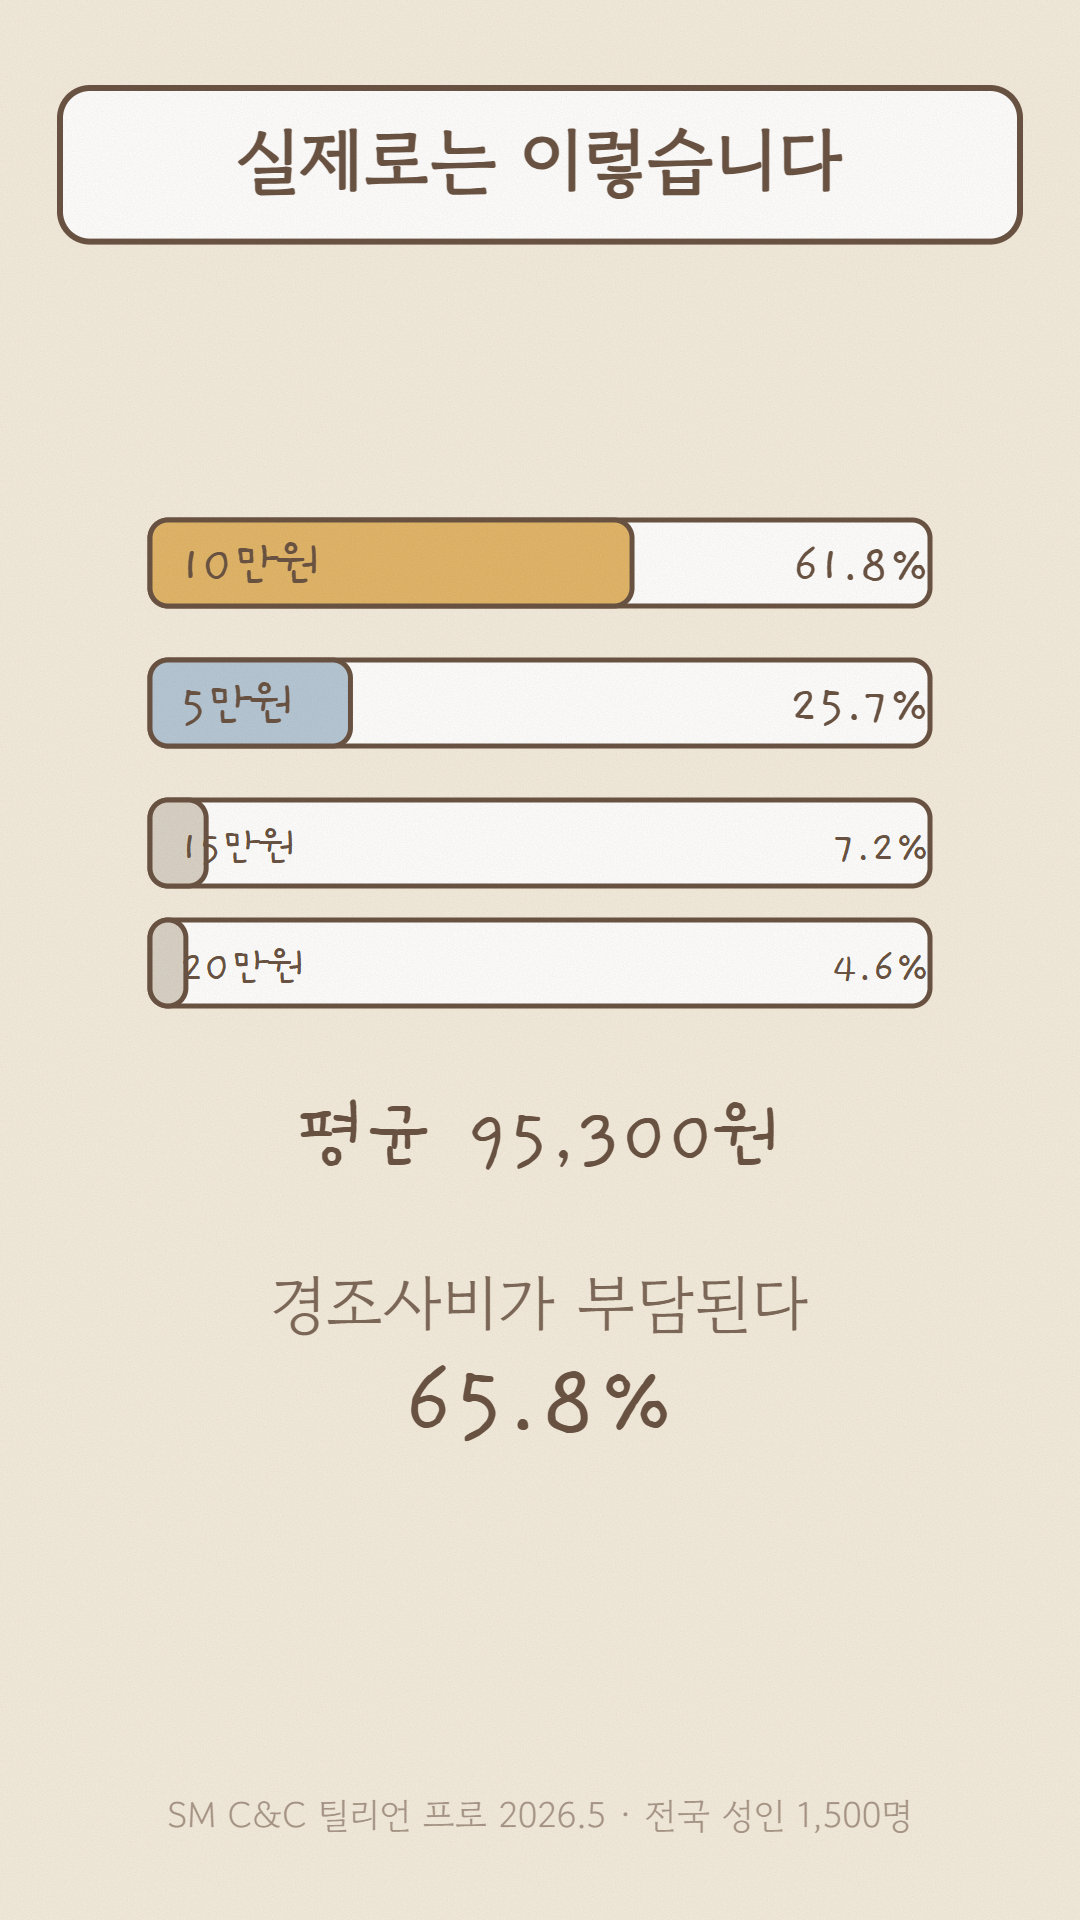
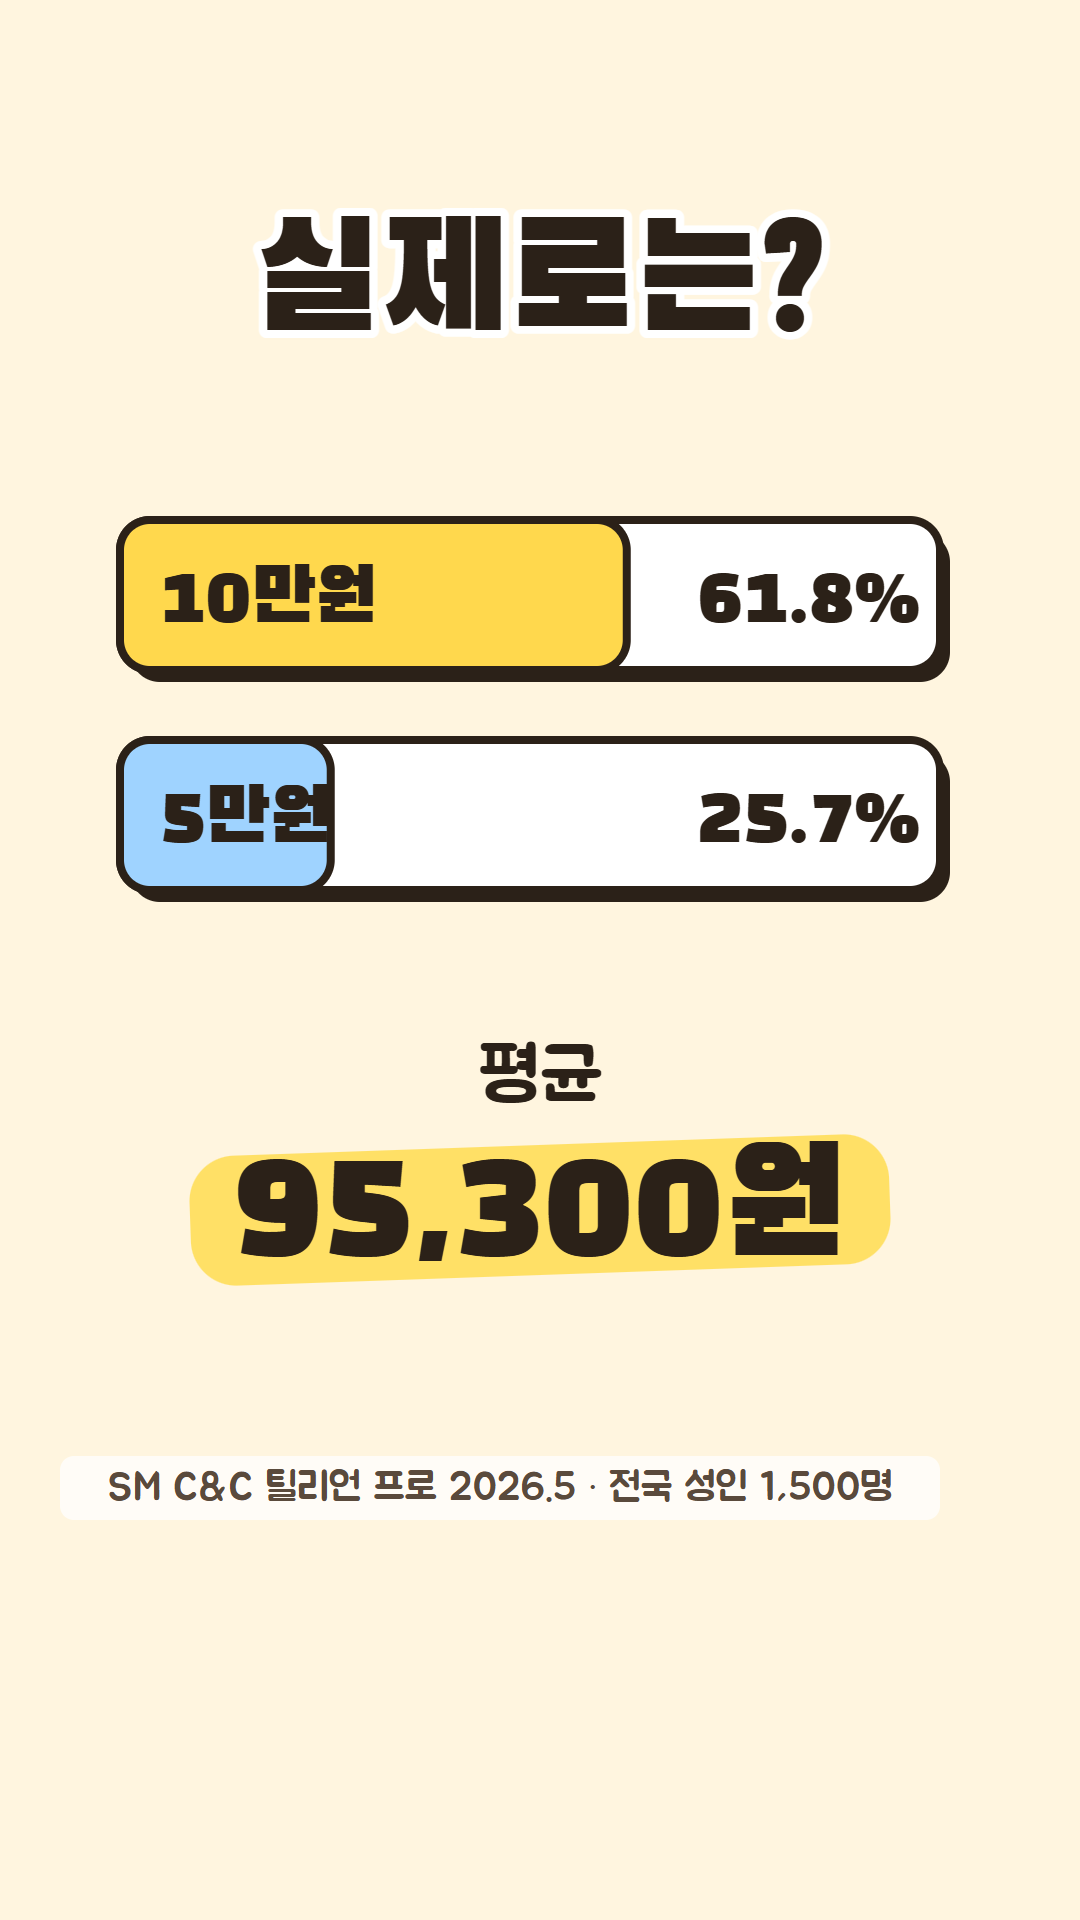
[shorts] 쇼츠 화풍 v2 — 공용 _shorts.js: 큰 글자(훅 ≥140px)·단색 배경·스티커 캐릭터·형광펜, s02 적용
AI 슬라이드 느낌을 줄이고 모바일 가독성을 높인다. 종이 질감·그라데이션·작은 회색 글씨 제거.

Claude-Session: https://claude.ai/code/session_01B59xgHZtNiHCFMMXcUhcu9

diff --git a/web/shorts/s02.html b/web/shorts/s02.html
@@ -2,10 +2,10 @@
 <html lang="ko">
 <head>
 <meta charset="utf-8">
-<title>쇼츠 02 — 부의금 5만원, 적나요?</title>
-<link href="https://fonts.googleapis.com/css2?family=Gaegu:wght@400;700&family=Gowun+Dodum&family=Nanum+Myeongjo&display=swap" rel="stylesheet">
+<title>쇼츠 02 — 부의금 5만원, 괜찮아요</title>
+<link href="https://fonts.googleapis.com/css2?family=Black+Han+Sans&family=Jua&display=swap" rel="stylesheet">
 <style>
-  body { margin: 0; background: #2a2230; font-family: 'Gowun Dodum', sans-serif; }
+  body { margin: 0; background: #2a2230; }
   .frames { display: flex; flex-wrap: wrap; gap: 20px; padding: 20px; }
   .frame { width: 270px; height: 480px; }   /* 미리보기 축소. 내보내기는 1080×1920 */
   .frame svg { display: block; width: 100%; height: 100%; }
@@ -14,113 +14,91 @@
 <body>
 <div class="frames" id="frames"></div>
 <script src="../../src/characters.js"></script>
+<script src="_shorts.js"></script>
 <script>
-document.body.insertAdjacentHTML('afterbegin', ROUGH_DEFS + CHAR_STYLE);
-GF.setMode('hand');
+// 화풍 v2 — 공용 규칙은 _shorts.js. 이 파일은 컷 내용만.
+document.body.insertAdjacentHTML('afterbegin', ROUGH_DEFS + CHAR_STYLE + SH.DEFS);
+GF.setMode('clean');
 GF.setAssets('../../assets/');
-const W = 1080, H = 1920;
-const F = "font-family:'Gaegu',sans-serif", FB = "font-family:'Gowun Dodum',sans-serif", FM = "font-family:'Nanum Myeongjo',serif";
-const T = (x, y, t, size, anchor = 'middle', font = FB, fill = INK, extra = '') =>
-  `<text x="${x}" y="${y}" text-anchor="${anchor}" font-size="${size}" style="${font}" fill="${fill}" ${extra}>${t}</text>`;
-// 큰 훅 문장 (쇼츠는 상단이 안전지대)
-const hook = (lines, y = 300, size = 112, font = F) =>
-  lines.map((t, i) => T(W / 2, y + size * 1.22 * i, t, size, 'middle', font, INK, 'font-weight="700"')).join('');
-// 흰 자막 바
-const cap = (lines, y = 210, size = 74) => {
-  const h = (lines.length - 1) * size * 1.35 + size * 1.3 + 60;
-  return `<rect x="60" y="${y - size - 30}" width="${W - 120}" height="${h}" rx="30" fill="#fff" stroke="${INK}" stroke-width="6"/>` +
-    lines.map((t, i) => T(W / 2, y + size * 1.35 * i, t, size, 'middle', FB, INK, 'font-weight="700"')).join('');
-};
-// 출처 — 숫자를 쓰면 반드시 붙인다 (docs/08_SOCIAL_STATS.md §4-1)
-const src = (t, y = 1830) => T(W / 2, y, t, 36, 'middle', FB, INK, 'opacity=".55"');
-const label = (t, y = 1700) => T(W / 2, y, t, 50, 'middle', FM, INK, 'opacity=".72"');
-const line = (y, t, size = 78) =>
-  `<rect x="70" y="${y - size}" width="${W - 140}" height="${size * 1.72}" rx="${size * 0.72}" fill="#fff" stroke="${INK}" stroke-width="7"/>` +
-  T(W / 2, y + size * 0.28, t, size, 'middle', F, INK);
-// 가로 막대 — 통계 컷
-const bar = (y, name, pct, w, color, big) => {
-  const bw = (W - 300) * (pct / 100);
-  return `<rect x="150" y="${y}" width="${W - 300}" height="86" rx="18" fill="#fff" stroke="${INK}" stroke-width="5"/>` +
-    `<rect x="150" y="${y}" width="${bw}" height="86" rx="18" fill="${color}" stroke="${INK}" stroke-width="5"/>` +
-    T(180, y + 60, name, big ? 54 : 46, 'start', F, INK) +
-    T(930, y + 60, pct + '%', big ? 54 : 46, 'end', F, INK);
-};
+const { W, C, T, head, hl, sticker, pill, src, env, cloud, frame, brand, HEAD, BODY } = SH;
 
-const frames = [];
-const frame = (bg, inner) => frames.push(`<svg viewBox="0 0 ${W} ${H}" xmlns="http://www.w3.org/2000/svg"><rect width="${W}" height="${H}" fill="${bg}"/>${inner}${paper(W, H)}</svg>`);
-
-// ── 1 (0–2.5s) 훅: 시청자에게 먼저 묻는다 ──
-frame('#efe6d6', `
-  ${hook(['부의금 5만원,', '적나요?'], 280, 118)}
-  ${itemAt('condolence', 540, 1080, 1180)}
-  ${label('2026년, 처음으로 10만원이 5만원을 넘었습니다', 1600)}
-  ${src('카카오페이 송금 리포트 2026.5 · 부의금 송금 비중')}
+// ── 1 훅 ──
+frame(C.yellow, `
+  ${T(540, 300, '부의금', 120, { font: HEAD, outline: 14 })}
+  ${hl(540, 440, 640, 150, '#fff', -3)}
+  ${head(['5만원,', '적나요?'], 500, 170)}
+  ${sticker(env(540, 1000, 440, '5만', -6))}
+  ${T(540, 1330, '2026년, 처음으로', 76, { outline: 12 })}
+  ${T(540, 1425, '10만원이 5만원을 넘었다', 76, { outline: 12 })}
+  ${src('카카오페이 송금 리포트 2026.5', 1540)}
 `);
 
-// ── 2 (2.5–5.5s) 통계 ──
-frame('#f4ecdd', `
-  ${cap(['실제로는 이렇습니다'], 190, 72)}
-  ${bar(520, '10만원', 61.8, W, '#e2b76a', true)}
-  ${bar(660, '5만원', 25.7, W, '#b7c8d6', true)}
-  ${bar(800, '15만원', 7.2, W, '#d9d2c6')}
-  ${bar(920, '20만원', 4.6, W, '#d9d2c6')}
-  ${T(540, 1160, '평균 95,300원', 82, 'middle', F, INK)}
-  ${T(540, 1330, '경조사비가 부담된다', 64, 'middle', FB, INK, 'opacity=".85"')}
-  ${T(540, 1430, '65.8%', 104, 'middle', F, INK)}
+// ── 2 통계 — 막대 두 개만 ──
+const bar = (y, name, pct, color) => { const full = 820, bw = full * pct / 100;
+  return `<rect x="130" y="${y + 12}" width="${full}" height="150" rx="30" fill="#2b2118"/>` +
+    `<rect x="120" y="${y}" width="${full}" height="150" rx="30" fill="#fff" stroke="#2b2118" stroke-width="8"/>` +
+    `<rect x="120" y="${y}" width="${bw}" height="150" rx="30" fill="${color}" stroke="#2b2118" stroke-width="8"/>` +
+    T(160, y + 102, name, 76, { anchor: 'start', font: HEAD }) + T(920, y + 102, pct + '%', 76, { anchor: 'end', font: HEAD }); };
+frame(C.cream, `
+  ${head(['실제로는?'], 330, 150)}
+  ${bar(520, '10만원', 61.8, C.yellow)}
+  ${bar(740, '5만원', 25.7, C.hlB)}
+  ${T(540, 1100, '평균', 76)}
+  ${hl(540, 1210, 700, 130, C.hlY, -2)}
+  ${T(540, 1255, '95,300원', 150, { font: HEAD })}
   ${src('SM C&C 틸리언 프로 2026.5 · 전국 성인 1,500명')}
 `);
 
-// ── 3 안심: 5만원은 여전히 넷 중 하나, 부담은 모두 같다 ──
-frame('#eef0ea', `
-  ${hook(['4명 중 1명은', '여전히 5만원'], 300, 104)}
-  ${T(540, 720, '25.7%', 150, 'middle', F, INK)}
-  ${nemoDad({ x: 350, y: 820, w: 380, h: 337, emo: 'good', suit: true })}
-  ${T(540, 1400, '3명 중 2명은 "부담된다" (65.8%)', 58, 'middle', FB, INK)}
-  ${label('고민하는 건, 다 같은 마음', 1560)}
+// ── 3 안심 — 넷 중 하나 ──
+const four = [0, 1, 2, 3].map(i => { const x = 80 + i * 245, on = i === 3;
+  return `<g opacity="${on ? 1 : 0.28}">${nemoDad({ x, y: 700, w: 175, h: 155, emo: on ? 'joy' : 'good', suit: true })}</g>`; }).join('');
+frame(C.mint, `
+  ${head(['4명 중 1명은'], 330, 140)}
+  ${hl(540, 450, 760, 140, C.hlY, -2)}
+  ${head(['여전히 5만원'], 500, 150, { outline: 0 })}
+  ${sticker(four)}
+  ${sticker(env(910, 960, 170, '5만', 8))}
+  ${T(540, 1180, '3명 중 2명은', 84, { outline: 12 })}
+  ${T(540, 1300, '"부담돼요"', 110, { font: HEAD, outline: 14 })}
   ${src('SM C&C 틸리언 프로 2026.5 · 전국 성인 1,500명')}
 `);
 
 // ── 4 두 가족의 봉투 — 세모는 고민 없이 10만, 네모의 속마음 ──
-// 큰 부의 봉투 (금액을 겉에 크게)
-const env = (cx, cy, w, amount, rot = 0) => { const h = w * 0.62;
-  return `<g transform="translate(${cx},${cy}) rotate(${rot})"><rect x="${-w / 2}" y="${-h / 2}" width="${w}" height="${h}" rx="8" fill="#fff" stroke="${INK}" stroke-width="6"/>` +
-    `<path d="M${-w / 2},${-h / 2} L0,${h * 0.06} L${w / 2},${-h / 2}" fill="none" stroke="${INK}" stroke-width="4"/>` +
-    T(0, h * 0.36, amount, w * 0.26, 'middle', F, INK, 'font-weight="700"') + '</g>'; };
-// 속마음 구름 말풍선 — 꼬리는 작은 원 두 개
-const thought = (cx, cy, w, h, lines, size, tx, ty) =>
-  `<ellipse cx="${cx}" cy="${cy}" rx="${w / 2}" ry="${h / 2}" fill="#fff" stroke="${INK}" stroke-width="6" stroke-dasharray="2 0"/>` +
-  `<circle cx="${tx}" cy="${ty}" r="22" fill="#fff" stroke="${INK}" stroke-width="5"/><circle cx="${tx + 26}" cy="${ty - 52}" r="12" fill="#fff" stroke="${INK}" stroke-width="4"/>` +
-  lines.map((t, i) => T(cx, cy - (lines.length - 1) * size * 0.62 + i * size * 1.24 + size * 0.35, t, size, 'middle', F, INK)).join('');
-frame('#ebe5da', `
-  <line x1="540" y1="150" x2="540" y2="1030" stroke="${INK}" stroke-width="4" stroke-dasharray="14 14" opacity=".35"/>
-  ${T(270, 230, '세모네', 84, 'middle', F, INK, 'font-weight="700"')}
-  ${T(270, 310, '맞벌이 · 아이 없음', 44, 'middle', FB, INK, 'opacity=".75"')}
-  ${T(810, 230, '네모네', 84, 'middle', F, INK, 'font-weight="700"')}
-  ${T(810, 310, '아이 넷', 44, 'middle', FB, INK, 'opacity=".75"')}
-  ${semoHusband({ x: 105, y: 500, size: 330, emo: 'good', suit: true })}
-  ${env(265, 950, 220, '10만', -8)}
-  ${T(430, 890, '척!', 68, 'middle', F, INK)}
-  ${nemoDad({ x: 650, y: 560, w: 330, h: 292, emo: 'good', suit: true })}
-  ${env(815, 950, 200, '5만', 4)}
-  ${thought(540, 1340, 920, 330, ['내 5만원이 훨씬 가치 있다는 걸', '알아둬라…'], 64, 860, 1140)}
-  ${label('— 네모의 속마음', 1560)}
+frame(C.cream, `
+  <rect x="0" y="0" width="540" height="1080" fill="${C.sky}"/>
+  <rect x="540" y="0" width="540" height="1080" fill="${C.peach}"/>
+  ${T(270, 250, '세모네', 120, { font: HEAD, outline: 14 })}
+  ${T(270, 340, '맞벌이·아이 없음', 56, { outline: 10 })}
+  ${T(810, 250, '네모네', 120, { font: HEAD, outline: 14 })}
+  ${T(810, 340, '아이 넷', 56, { outline: 10 })}
+  ${sticker(semoHusband({ x: 110, y: 450, size: 320, emo: 'joy', suit: true }))}
+  ${sticker(env(270, 920, 250, '10만', -10))}
+  ${T(450, 850, '척!', 90, { font: HEAD, outline: 12, rot: 12 })}
+  ${sticker(nemoDad({ x: 650, y: 500, w: 320, h: 283, emo: 'good', suit: true }))}
+  ${sticker(env(810, 920, 220, '5만', 5))}
+  ${cloud(540, 1330, 960, 420)}
+  <circle cx="820" cy="1085" r="26" fill="#fff" stroke="#2b2118" stroke-width="7"/>
+  <circle cx="850" cy="1030" r="14" fill="#fff" stroke="#2b2118" stroke-width="6"/>
+  ${T(540, 1270, '내 5만원이 훨씬', 84, { font: HEAD })}
+  ${T(540, 1370, '가치 있다는 걸', 84, { font: HEAD })}
+  ${T(540, 1470, '알아둬라…', 84, { font: HEAD })}
 `);
 
-// ── 5 착지 — 5만원도 괜찮다 + 작가의 문장 ──
-frame('#efe6d6', `
-  ${hook(['5만원도 괜찮아요'], 280, 110)}
-  ${T(540, 420, '그냥 형편껏 하고,', 64, 'middle', FM, INK)}
-  ${T(540, 510, '마음만 잘 전달되기를…', 64, 'middle', FM, INK)}
-  ${nemoDad({ x: 350, y: 800, w: 380, h: 337, emo: 'good', suit: true })}
-  ${T(540, 1330, '당신은?', 68, 'middle', F, INK)}
-  ${T(230, 1450, '① 5만', 58, 'middle', FB, INK)}
-  ${T(540, 1450, '② 10만', 58, 'middle', FB, INK)}
-  ${T(860, 1450, '③ 형편껏', 58, 'middle', FB, INK)}
-  ${T(540, 1660, '기하학 가족', 72, 'middle', F, INK, 'letter-spacing="8"')}
-  ${T(540, 1740, 'seomun.github.io/geometric-family', 38, 'middle', FB, INK, 'opacity=".6"')}
+// ── 5 착지 — 5만원도 괜찮다 ──
+frame(C.pink, `
+  ${hl(540, 330, 720, 150, '#fff', -3)}
+  ${head(['5만원도', '괜찮아요'], 380, 170)}
+  ${T(540, 720, '그냥 형편껏 하고,', 72, { outline: 12 })}
+  ${T(540, 815, '마음만 잘 전달되기를', 72, { outline: 12 })}
+  ${sticker(nemoDad({ x: 405, y: 860, w: 270, h: 239, emo: 'joy', suit: true }))}
+  ${T(540, 1265, '당신은?', 90, { font: HEAD, outline: 14 })}
+  ${pill(320, 1385, '① 5만', 58)}
+  ${pill(740, 1385, '② 10만', 58)}
+  ${pill(540, 1510, '③ 형편껏', 58)}
+  ${T(540, 170, '기하학 가족', 56, { font: HEAD, extra: 'letter-spacing="8"' })}
 `);
 
-document.getElementById('frames').innerHTML = frames.map((f, i) => `<div class="frame" id="f${i + 1}">${f}</div>`).join('');
+SH.mount();
 </script>
 </body>
 </html>

diff --git a/web/shorts/_shorts.js b/web/shorts/_shorts.js
@@ -1,0 +1,62 @@
+// 쇼츠 공용 화풍 v2 (2026-09-29) — 모든 쇼츠가 이 파일을 쓴다.
+// 원칙: 글자는 아주 크게(본문 ≥ 64px, 훅 ≥ 140px @1080폭) · 컷마다 선명한 단색 배경 · 종이 질감/그라데이션 없음
+//       캐릭터는 스티커(흰 테두리 + 딱 떨어지는 그림자) · 핵심 단어는 형광펜 · 한 컷에 핵심 하나
+// 안전지대: 유튜브 쇼츠 UI 가 하단 ~330px·우측 ~140px 를 가린다 → 중요한 건 y 140~1560, x 60~940
+(function (root) {
+  const W = 1080, H = 1920;
+  const INK2 = '#2b2118';                         // 글자 먹색 (캐릭터 외곽선 INK 와 별개, 가독성용)
+  const C = { yellow: '#ffd84d', cream: '#fff5df', mint: '#bfe6d2', sky: '#cfe2f7', peach: '#ffd2b5',
+              pink: '#ffb3c7', navy: '#24324f', hlY: '#ffe066', hlP: '#ff9fbd', hlB: '#9fd3ff' };
+  const HEAD = "font-family:'Black Han Sans',sans-serif", BODY = "font-family:'Jua',sans-serif";
+  const FONTS = 'https://fonts.googleapis.com/css2?family=Black+Han+Sans&family=Jua&display=swap';
+
+  const DEFS = `<svg width="0" height="0" style="position:absolute" aria-hidden="true"><defs>
+    <filter id="sticker" x="-15%" y="-15%" width="130%" height="130%">
+      <feMorphology in="SourceAlpha" operator="dilate" radius="9" result="o"/>
+      <feFlood flood-color="#fff"/><feComposite in2="o" operator="in" result="white"/>
+      <feOffset in="o" dx="10" dy="12" result="so"/><feFlood flood-color="${INK2}" flood-opacity=".9"/>
+      <feComposite in2="so" operator="in" result="shadow"/>
+      <feMerge><feMergeNode in="shadow"/><feMergeNode in="white"/><feMergeNode in="SourceGraphic"/></feMerge>
+    </filter></defs></svg>`;
+
+  const esc = (t) => String(t);
+  // 글자: 흰 외곽선을 글자 뒤에 깔아 어떤 배경에서도 읽힌다
+  const T = (x, y, t, size, { font = BODY, fill = INK2, anchor = 'middle', outline = 0, rot = 0, extra = '' } = {}) =>
+    `<text x="${x}" y="${y}" text-anchor="${anchor}" font-size="${size}" style="${font}" fill="${fill}"` +
+    (outline ? ` stroke="#fff" stroke-width="${outline}" stroke-linejoin="round" paint-order="stroke"` : '') +
+    (rot ? ` transform="rotate(${rot} ${x} ${y})"` : '') + ` ${extra}>${esc(t)}</text>`;
+  // 큰 제목 줄들
+  const head = (lines, y, size = 150, o = {}) =>
+    lines.map((t, i) => T(o.x ?? W / 2, y + i * size * 1.15, t, size, { font: HEAD, outline: 16, ...o })).join('');
+  // 형광펜 — 손으로 그은 듯 살짝 기울고 끝이 둥글다
+  const hl = (cx, cy, w, h, color = C.hlY, rot = -2) =>
+    `<rect x="${cx - w / 2}" y="${cy - h / 2}" width="${w}" height="${h}" rx="${h * 0.35}" fill="${color}" transform="rotate(${rot} ${cx} ${cy})"/>`;
+  const sticker = (svg) => `<g filter="url(#sticker)">${svg}</g>`;
+  // 알약 버튼 (투표 선택지)
+  const pill = (cx, cy, t, size = 64, color = '#fff') => { const w = t.length * size * 0.95 + 70, h = size * 1.6;
+    return `<rect x="${cx - w / 2 + 8}" y="${cy - h / 2 + 10}" width="${w}" height="${h}" rx="${h / 2}" fill="${INK2}"/>` +
+      `<rect x="${cx - w / 2}" y="${cy - h / 2}" width="${w}" height="${h}" rx="${h / 2}" fill="${color}" stroke="${INK2}" stroke-width="7"/>` +
+      T(cx, cy + size * 0.36, t, size, { font: BODY }); };
+  // 출처 — 작아도 읽히게 44px, 반투명 띠 위
+  const src = (t, y = 1500) => `<rect x="60" y="${y - 44}" width="${W - 200}" height="64" rx="14" fill="#fff" opacity=".75"/>` +
+    T(60 + (W - 200) / 2, y, t, 40, { font: BODY, fill: '#5a4a3c' });
+  // 봉투 (금액을 겉에 크게)
+  const env = (cx, cy, w, amount, rot = 0) => { const h = w * 0.64;
+    return `<g transform="translate(${cx},${cy}) rotate(${rot})"><rect x="${-w / 2}" y="${-h / 2}" width="${w}" height="${h}" rx="10" fill="#fff" stroke="${INK2}" stroke-width="8"/>` +
+      `<path d="M${-w / 2},${-h / 2} L0,${h * 0.05} L${w / 2},${-h / 2}" fill="none" stroke="${INK2}" stroke-width="6"/>` +
+      T(0, h * 0.38, amount, w * 0.3, { font: HEAD }) + '</g>'; };
+  // 생각 구름
+  const cloud = (cx, cy, w, h, fill = '#fff') => {
+    const bumps = 9, rx = w / 2, ry = h / 2; let d = '';
+    for (let i = 0; i < bumps; i++) { const a = (i / bumps) * Math.PI * 2, bx = cx + Math.cos(a) * rx * 0.82, by = cy + Math.sin(a) * ry * 0.78;
+      d += `<ellipse cx="${bx}" cy="${by}" rx="${rx * 0.36}" ry="${ry * 0.42}" fill="${fill}" stroke="${INK2}" stroke-width="7"/>`; }
+    return d + `<ellipse cx="${cx}" cy="${cy}" rx="${rx * 0.86}" ry="${ry * 0.8}" fill="${fill}"/>`; };
+
+  const frames = [];
+  const frame = (bg, inner) => frames.push(`<svg viewBox="0 0 ${W} ${H}" xmlns="http://www.w3.org/2000/svg"><rect width="${W}" height="${H}" fill="${bg}"/>${inner}</svg>`);
+  const mount = () => { document.getElementById('frames').innerHTML = frames.map((f, i) => `<div class="frame" id="f${i + 1}">${f}</div>`).join(''); };
+  // 브랜드 꼬리 — 마지막 컷 하단 안전지대 위
+  const brand = (y = 1500) => T(W / 2, y, '기하학 가족', 72, { font: HEAD, extra: 'letter-spacing="10"' });
+
+  root.SH = { W, H, C, INK2, HEAD, BODY, FONTS, DEFS, T, head, hl, sticker, pill, src, env, cloud, frame, mount, brand };
+})(window);
